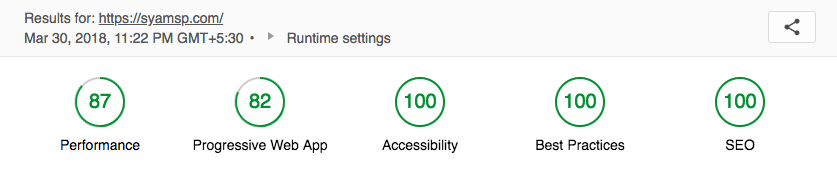
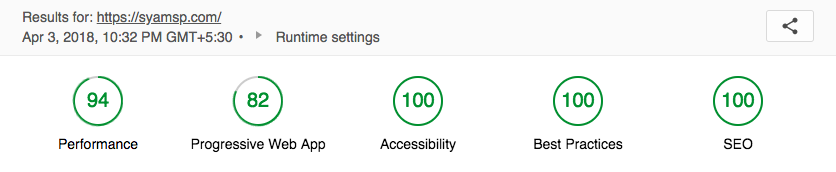
updated manifest json

diff --git a/src/assets/global-styles.js b/src/assets/global-styles.js
@@ -13,6 +13,7 @@ injectGlobal`
     font-style: normal;
     font-weight: 600;
     src: url(${AvenirHeavy}) format('opentype');
+    font-display: block;
   }
 
   @font-face {
@@ -20,6 +21,7 @@ injectGlobal`
     font-style: normal;
     font-weight: 400;
     src: url(${AvenirRegular}) format('opentype');
+    font-display: block;
   }
 
   @font-face {
@@ -27,6 +29,7 @@ injectGlobal`
     font-style: normal;
     font-weight: 300;
     src: url(${AvenirLight}) format('opentype');
+    font-display: block;
   }
 
   :root {
